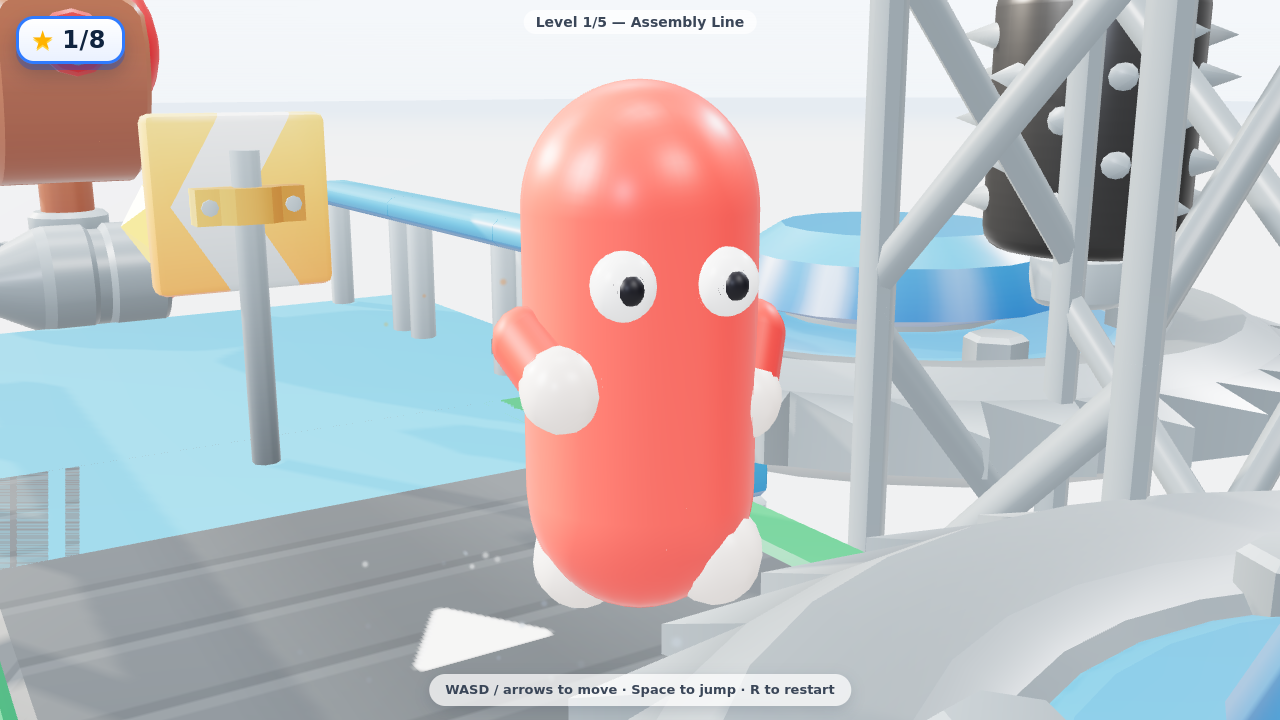
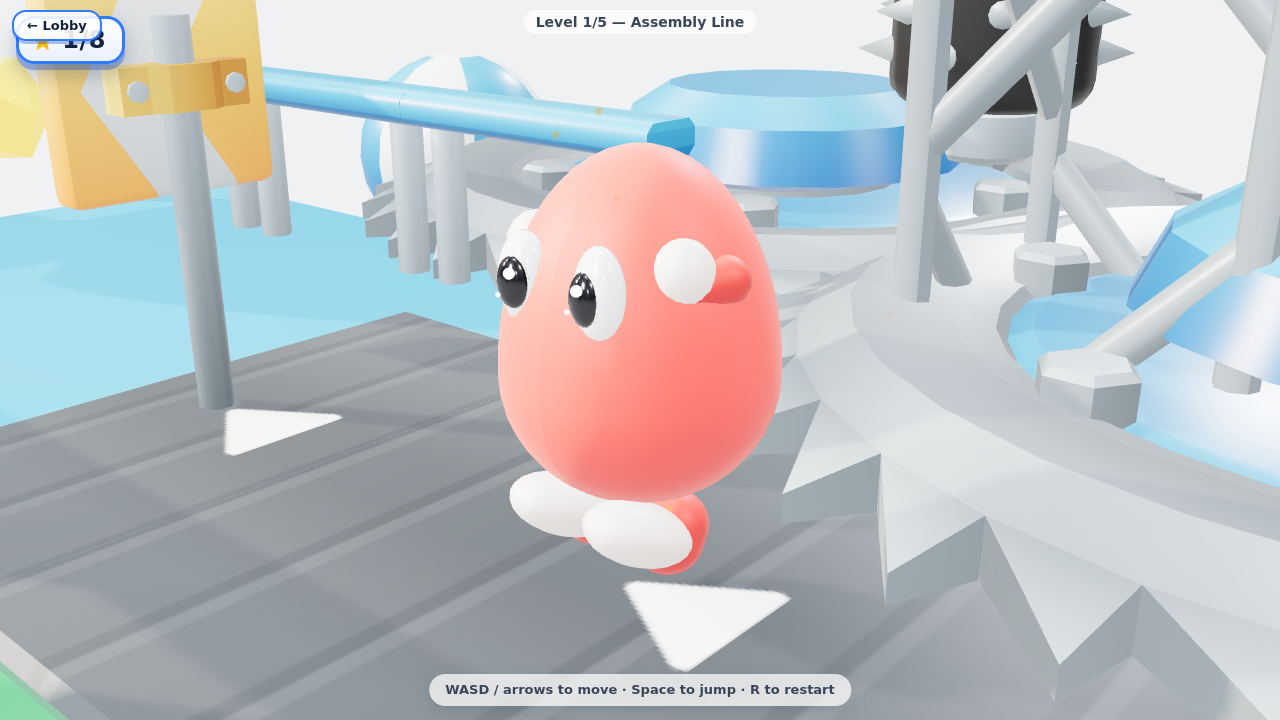
Redesign character into a proper Fall-Guys bean
Rebuilt web/src/character.js (shared by the in-game player and the lobby
preview) from a plain capsule into a Fall-Guys-style bean, via a research +
5-parallel-candidate + synthesis pipeline (see CHARACTER_DESIGN.md):

- Body: a bottom-heavy GUMDROP built from a generated two-ellipse
  LatheGeometry profile (fat round bottom, widest ~37% up, tall ROUNDED dome
  top — no cone/point), with a baked bottom ambient-occlusion via vertex
  colours that survives every skin recolour.
- Eyes (the expression): BIG tall-oval glossy sclera + a large wet near-black
  pupil + two crisp unlit white catchlight dots (same screen-side on both for
  a focused gaze), set in the upper-middle with a clear forehead.
- Limbs: tiny stubby mitten arms splayed at the body's side surface + short
  legs with flattened FORWARD boots, so arms and feet read clearly from the
  high in-game camera. Foot bottom at y -0.78 (stands on decks).
- Material: satin 'jelly/vinyl' MeshPhysicalMaterial (clearcoat + sheen +
  faint fake-SSS emissive); glossier eyes; honours skin.finish
  (matte/gloss/metal) and still supports the skin pattern textures.

Drop-in: same buildCharacter(parent, skin) contract + BEAN_RADIUS/
BEAN_HALF_HEIGHT exports, so player.js's squash/walk/blink rig and the
cosmetics skin/aura/pet system are unchanged. Physics capsule untouched —
L1 both lanes still finish with 0 deaths; solid + patterned skins verified.
Refreshed the character.png / lobby.png deliverable shots to the new bean.
[…]

diff --git a/web/src/character.js b/web/src/character.js
@@ -1,14 +1,23 @@
 import * as THREE from 'three';
 
-// CHARACTER — the shared "pill guy" mesh builder. Used by BOTH the in-game
-// player (player.js) and the lobby preview (lobby.js) so the equipped SKIN looks
-// identical everywhere. A skin recolors the body/limbs/hands+feet and can add a
-// surface pattern + material finish (matte/gloss/metal). Movement/physics live
-// in player.js; this file is pure visuals.
+// CHARACTER — the shared "pill guy" mesh builder, redesigned to read like the
+// real Fall Guys bean. Used by BOTH the in-game player (player.js) and the lobby
+// preview (lobby.js) so the equipped SKIN looks identical everywhere.
 //
 //   buildCharacter(parent, skin?) -> { rig, body, legL, legR, armL, armR, eyes }
 //     skin = a cosmetics 'skin' item: { body, limb, cap, pattern, patternColor, finish }
-//            (all colours are hex strings). Omitted -> the default Classic Coral.
+//            (hex strings). Omitted -> the default Classic Coral.
+//
+// Design (from Fall Guys reference): a bottom-heavy GUMDROP body (LatheGeometry,
+// widest in the lower third, fuller rounded dome top) with a baked soft bottom
+// ambient-occlusion; BIG tall-oval eyes (glossy white sclera + a large dark wet
+// pupil + crisp unlit catchlights) set in the upper-middle with a clear forehead;
+// and TINY stubby mitten arms + boot legs that peek past the body. A satin
+// "jelly/vinyl toy" MeshPhysicalMaterial (clearcoat + sheen + faint fake-SSS).
+//
+// Contract for the owner: everything lives under one THREE.Group `rig` (the
+// squash/stretch handle); legL/R + armL/R are hinged pivot Groups (rotation.x
+// swings them); `eyes` is an array of eye GROUPS so a blink scales each .y -> 0.1.
 
 // Capsule dimensions — exported so player.js builds its physics capsule to match.
 export const BEAN_RADIUS = 0.35;
@@ -19,76 +28,144 @@ const DEFAULT_SKIN = {
   pattern: 'none', patternColor: '#ffffff', finish: 'matte',
 };
 
-// Material params per finish: roughness/metalness/env intensity for the body.
+// Body profile (radius, y) — generated as TWO quarter-ellipses joined at the
+// widest point so the silhouette is a smooth bottom-heavy GUMDROP: a fat round
+// bottom (short lower ellipse) under a tall ROUNDED DOME (taller upper ellipse),
+// never a cone/point. Widest ~0.44 at ~34% up; round bottom y -0.62; domed top
+// y +0.72. Feet/boots hang just below to y -0.78.
+const BODY_PROFILE = (() => {
+  const pts = [];
+  const maxR = 0.45, bottomY = -0.55, widestY = -0.12, topY = 0.62;
+  const lo = widestY - bottomY, hi = topY - widestY, N = 11;
+  for (let i = 0; i <= N; i++) { const a = (i / N) * (Math.PI / 2); pts.push([maxR * Math.sin(a), bottomY + lo * (1 - Math.cos(a))]); }
+  for (let i = 1; i <= N + 2; i++) { const b = (i / (N + 2)) * (Math.PI / 2); pts.push([maxR * Math.cos(b), widestY + hi * Math.sin(b)]); }
+  return pts;
+})();
+
+// Per-finish material numbers for the body. default/'satin' -> the jelly defaults.
 function finishParams(finish) {
   switch (finish) {
-    case 'gloss': return { roughness: 0.18, metalness: 0.1, env: 1.2 };
-    case 'metal': return { roughness: 0.25, metalness: 0.92, env: 1.5 };
-    default:      return { roughness: 0.4, metalness: 0.05, env: 1.0 }; // matte
+    case 'matte': return { roughness: 0.5, metalness: 0.0, clearcoat: 0.12, clearcoatRoughness: 0.6, env: 0.7 };
+    case 'gloss': return { roughness: 0.2, metalness: 0.0, clearcoat: 0.6, clearcoatRoughness: 0.25, env: 1.25 };
+    case 'metal': return { roughness: 0.28, metalness: 0.9, clearcoat: 0.35, clearcoatRoughness: 0.25, env: 1.6 };
+    default:      return { roughness: 0.4, metalness: 0.0, clearcoat: 0.28, clearcoatRoughness: 0.45, env: 0.9 };
   }
 }
+
+function smoothstep(e0, e1, x) { const t = Math.min(1, Math.max(0, (x - e0) / (e1 - e0))); return t * t * (3 - 2 * t); }
+function lighten(hex, amt) { return new THREE.Color(hex).lerp(new THREE.Color(0xffffff), amt); }
 
 export function buildCharacter(parent, skin) {
   const s = { ...DEFAULT_SKIN, ...(skin || {}) };
   const fin = finishParams(s.finish);
+  const hasPattern = s.pattern && s.pattern !== 'none';
 
-  const bodyMat = new THREE.MeshStandardMaterial({ color: new THREE.Color(s.body), roughness: fin.roughness, metalness: fin.metalness, envMapIntensity: fin.env });
-  // A surface pattern is baked into a small canvas texture used as the body map.
-  if (s.pattern && s.pattern !== 'none') {
+  // --- Body material: satin jelly/vinyl. clearcoat = thin glossy lacquer; sheen
+  // = soft velvety fresnel rim; faint emissive of the body hue fakes sub-surface
+  // glow so shadowed faces don't go muddy. vertexColors = the baked bottom AO.
+  // When the skin has a pattern, the texture carries the albedo (body colour +
+  // pattern), so the material colour is white to avoid double-tinting.
+  const bodyMat = new THREE.MeshPhysicalMaterial({
+    color: hasPattern ? 0xffffff : new THREE.Color(s.body),
+    roughness: fin.roughness, metalness: fin.metalness,
+    clearcoat: fin.clearcoat, clearcoatRoughness: fin.clearcoatRoughness,
+    sheen: 0.7, sheenRoughness: 0.6, sheenColor: lighten(s.body, 0.35),
+    envMapIntensity: fin.env,
+    emissive: new THREE.Color(s.body), emissiveIntensity: 0.1,
+    vertexColors: true,
+  });
+  if (hasPattern) {
     const tex = makePatternTexture(s.body, s.patternColor, s.pattern);
     if (tex) bodyMat.map = tex;
   }
-  const limbMat = new THREE.MeshStandardMaterial({ color: new THREE.Color(s.limb), roughness: 0.45, metalness: fin.metalness * 0.6 });
-  const capMat = new THREE.MeshStandardMaterial({ color: new THREE.Color(s.cap), roughness: 0.3, metalness: 0.05 });
+  const limbMat = new THREE.MeshPhysicalMaterial({
+    color: new THREE.Color(s.limb), roughness: Math.max(0.12, fin.roughness - 0.05), metalness: fin.metalness,
+    clearcoat: Math.min(1, fin.clearcoat + 0.1), clearcoatRoughness: fin.clearcoatRoughness,
+    sheen: 0.5, sheenRoughness: 0.6, sheenColor: lighten(s.limb, 0.3), envMapIntensity: fin.env,
+  });
+  const capMat = new THREE.MeshPhysicalMaterial({
+    color: new THREE.Color(s.cap), roughness: 0.28, metalness: fin.metalness * 0.4,
+    clearcoat: 0.35, clearcoatRoughness: 0.35, sheen: 0.4, sheenRoughness: 0.6,
+    sheenColor: lighten(s.cap, 0.25), envMapIntensity: fin.env,
+  });
+  // Eyes: glossiest, wettest element. Sclera = wet white; pupil = deep wet black.
+  const scleraMat = new THREE.MeshPhysicalMaterial({ color: 0xffffff, roughness: 0.12, clearcoat: 0.8, clearcoatRoughness: 0.08, envMapIntensity: 1.4 });
+  const pupilMat = new THREE.MeshPhysicalMaterial({ color: 0x16161e, roughness: 0.08, clearcoat: 1.0, clearcoatRoughness: 0.04, envMapIntensity: 1.6 });
+  const catchMat = new THREE.MeshBasicMaterial({ color: 0xffffff, toneMapped: false });
 
-  const R = BEAN_RADIUS, HH = BEAN_HALF_HEIGHT;
-
-  // Squash & stretch rig: a single Group holding ALL character meshes so the
-  // owner can scale/offset the whole character (juice) without disturbing
-  // object3D.position (physics/camera) or object3D.rotation.y (facing).
+  // Squash & stretch rig: one Group holding ALL meshes.
   const rig = new THREE.Group();
   parent.add(rig);
 
-  // Torso (the bean).
-  const body = new THREE.Mesh(new THREE.CapsuleGeometry(R, 2 * HH, 8, 20), bodyMat);
+  // --- Body: revolved gumdrop + baked bottom-AO vertex colours. ---------------
+  const bodyGeo = new THREE.LatheGeometry(BODY_PROFILE.map(([r, y]) => new THREE.Vector2(r, y)), 64);
+  bodyGeo.computeVertexNormals();
+  const pos = bodyGeo.getAttribute('position');
+  let minY = Infinity, maxY = -Infinity;
+  for (let i = 0; i < pos.count; i++) { const y = pos.getY(i); if (y < minY) minY = y; if (y > maxY) maxY = y; }
+  const aoTop = minY + (maxY - minY) * 0.5; // full albedo by ~mid-body
+  const colors = new Float32Array(pos.count * 3);
+  for (let i = 0; i < pos.count; i++) {
+    const f = 0.8 + 0.2 * smoothstep(minY, aoTop, pos.getY(i)); // 0.8 at base -> 1.0 by mid
+    colors[i * 3] = f; colors[i * 3 + 1] = f; colors[i * 3 + 2] = f;
+  }
+  bodyGeo.setAttribute('color', new THREE.BufferAttribute(colors, 3));
+  const body = new THREE.Mesh(bodyGeo, bodyMat);
   body.castShadow = true; body.receiveShadow = true;
   rig.add(body);
 
-  // A limb hinged at (px,py): a Group at the hinge holding a capsule that hangs
-  // below it, capped with a rounded sphere (hand/foot). baseZ tilts it outward.
-  function limb(px, py, length, r, capR, baseZ) {
+  // --- Limbs: pivot Group at (px,py) with a capsule + rounded cap hanging below
+  // the hinge, so rotation.x swings it. baseZ splays it outward; capSY flattens
+  // the cap (boots), capFwd nudges it forward (toe).
+  function limb(px, py, length, r, capR, baseZ, capSY, capFwd, capSZ) {
     const g = new THREE.Group();
     g.position.set(px, py, 0);
     g.rotation.z = baseZ || 0;
-    const m = new THREE.Mesh(new THREE.CapsuleGeometry(r, length, 5, 10), limbMat);
+    const m = new THREE.Mesh(new THREE.CapsuleGeometry(r, length, 6, 12), limbMat);
     m.position.y = -(length / 2 + r * 0.5);
     m.castShadow = true;
     g.add(m);
-    const cap = new THREE.Mesh(new THREE.SphereGeometry(capR, 12, 10), capMat);
-    cap.position.y = -(length + r * 0.5);
+    const cap = new THREE.Mesh(new THREE.SphereGeometry(capR, 16, 12), capMat);
+    cap.position.set(0, -(length + r * 0.5), capFwd || 0);
+    if (capSY || capSZ) cap.scale.set(1, capSY || 1, capSZ || 1.08);
     cap.castShadow = true;
     g.add(cap);
     rig.add(g);
     return g;
   }
-  // Legs: spaced apart, hung from the lower bean so the cream feet peek out below.
-  const legL = limb(-0.18, -HH + 0.06, 0.22, 0.12, 0.15, 0);
-  const legR = limb(0.18, -HH + 0.06, 0.22, 0.12, 0.15, 0);
-  // Arms: at the shoulders, splayed slightly outward (base z-tilt) with hands.
-  const armL = limb(-(R + 0.02), HH * 0.2, 0.2, 0.1, 0.12, 0.32);
-  const armR = limb(R + 0.02, HH * 0.2, 0.2, 0.1, 0.12, -0.32);
+  // Legs: thick short stubs with flattened boots pushed FORWARD and lengthened in
+  // z (toe) so the feet poke out the front-bottom — visible even from the high
+  // in-game camera. Boot bottom lands at ~y -0.78 (stands on decks).
+  const legL = limb(-0.16, -0.565, 0.05, 0.12, 0.15, 0, 0.7, 0.16, 1.5);
+  const legR = limb(0.16, -0.565, 0.05, 0.12, 0.15, 0, 0.7, 0.16, 1.5);
+  // Arms: attached out at the body's SIDE surface (x ~ body radius at that
+  // height) and splayed outward, so the mitten hands clearly clear the fat belly
+  // instead of hiding inside it.
+  const armL = limb(-0.37, 0.26, 0.13, 0.08, 0.10, 0.5, 1, 0.05);
+  const armR = limb(0.37, 0.26, 0.13, 0.08, 0.10, -0.5, 1, 0.05);
 
-  // Eyes on the +Z (front) face.
-  const whiteMat = new THREE.MeshStandardMaterial({ color: 0xffffff, roughness: 0.25 });
-  const pupilMat = new THREE.MeshStandardMaterial({ color: 0x1a1a22, roughness: 0.4 });
-  const eyeY = HH * 0.6, eyeX = R * 0.42, eyeZ = R * 0.92;
-  const eyes = []; // eye-white meshes — Y-scaled to blink
+  // --- Eyes: big tall-ovals in the upper-middle, clear forehead dome above.
+  // Each eye is a GROUP (sclera + pupil + 2 catchlights) so a blink scales .y.
+  // Catchlights sit on the SAME screen-side on both eyes (not mirrored) for a
+  // single focused gaze. A slight toe-in faces them forward on the curved body.
+  const eyes = [];
+  const eyeY = 0.24, eyeX = 0.15, eyeZ = 0.35;
   for (const sx of [-1, 1]) {
-    const white = new THREE.Mesh(new THREE.SphereGeometry(R * 0.26, 16, 12), whiteMat);
-    white.position.set(sx * eyeX, eyeY, eyeZ); white.castShadow = true; rig.add(white);
-    eyes.push(white);
-    const pupil = new THREE.Mesh(new THREE.SphereGeometry(R * 0.13, 12, 10), pupilMat);
-    pupil.position.set(sx * eyeX, eyeY, eyeZ + R * 0.16); rig.add(pupil);
+    const eye = new THREE.Group();
+    eye.position.set(sx * eyeX, eyeY, eyeZ);
+    eye.rotation.y = -sx * 0.14; // toe in toward the front centre
+    const sclera = new THREE.Mesh(new THREE.SphereGeometry(0.1, 20, 16), scleraMat);
+    sclera.scale.set(0.86, 1.5, 0.7); sclera.castShadow = true;
+    eye.add(sclera);
+    const pupil = new THREE.Mesh(new THREE.SphereGeometry(0.062, 18, 14), pupilMat);
+    pupil.scale.set(0.85, 1.32, 0.62); pupil.position.z = 0.055;
+    eye.add(pupil);
+    const main = new THREE.Mesh(new THREE.SphereGeometry(0.018, 10, 8), catchMat);
+    main.position.set(0.022, 0.04, 0.1); eye.add(main); // upper, screen-right
+    const spark = new THREE.Mesh(new THREE.SphereGeometry(0.008, 8, 6), catchMat);
+    spark.position.set(-0.022, -0.032, 0.1); eye.add(spark); // lower-opposite
+    rig.add(eye);
+    eyes.push(eye);
   }
 
   return { rig, body, legL, legR, armL, armR, eyes };
@@ -103,7 +180,6 @@ function makePatternTexture(baseHex, patHex, pattern) {
   c.width = c.height = size;
   const ctx = c.getContext('2d');
   if (!ctx) return null;
-
   if (pattern === 'gradient') {
     const g = ctx.createLinearGradient(0, 0, 0, size);
     g.addColorStop(0, patHex); g.addColorStop(1, baseHex);
@@ -122,18 +198,11 @@ function makePatternTexture(baseHex, patHex, pattern) {
         ctx.stroke();
       }
     } else if (pattern === 'spots') {
-      for (let i = 0; i < 26; i++) {
-        const x = Math.random() * size, y = Math.random() * size, r = 10 + Math.random() * 14;
-        ctx.beginPath(); ctx.arc(x, y, r, 0, Math.PI * 2); ctx.fill();
-      }
+      for (let i = 0; i < 26; i++) { const x = Math.random() * size, y = Math.random() * size, r = 10 + Math.random() * 14; ctx.beginPath(); ctx.arc(x, y, r, 0, Math.PI * 2); ctx.fill(); }
     } else if (pattern === 'stars') {
-      for (let i = 0; i < 40; i++) {
-        const x = Math.random() * size, y = Math.random() * size, r = 2 + Math.random() * 4;
-        ctx.beginPath(); ctx.arc(x, y, r, 0, Math.PI * 2); ctx.fill();
-      }
+      for (let i = 0; i < 40; i++) { const x = Math.random() * size, y = Math.random() * size, r = 2 + Math.random() * 4; ctx.beginPath(); ctx.arc(x, y, r, 0, Math.PI * 2); ctx.fill(); }
     }
   }
-
   const tex = new THREE.CanvasTexture(c);
   tex.colorSpace = THREE.SRGBColorSpace;
   tex.wrapS = tex.wrapT = THREE.RepeatWrapping;

diff --git a/CHARACTER_DESIGN.md b/CHARACTER_DESIGN.md
@@ -1,0 +1,60 @@
+# Pill-Guys — Character Redesign (Fall-Guys bean)
+
+The player character (and lobby preview) was rebuilt in `web/src/character.js` to
+read like the real Fall Guys bean instead of a plain capsule. Done with a
+research → many-candidates → synthesis pipeline.
+
+## Research (what the real Fall Guys bean is)
+
+- **Body:** a bottom-heavy **gumdrop/teardrop**, NOT a uniform capsule — fat,
+  near-hemispherical bottom, **widest ~35–40% up**, tapering to a **rounded
+  domed top** (no neck). Body-alone height:width ≈ 1.25:1 (squat). Build with a
+  revolved profile (LatheGeometry).
+- **Eyes = the whole expression:** **big, tall-oval** eyes (not small spheres),
+  a large **dark wet pupil** (~60% of the white), and crisp **specular
+  catchlight dots** (the "alive" highlight — unlit so they always pop). Set high
+  on the front with a clear forehead dome. No mouth/nose/brows on the base bean.
+- **Limbs:** **tiny** vs the body (¼–⅕ its size) — stubby rounded **mitten**
+  arms high on the shoulder slope, short thick **boot** legs close together,
+  feet poking out the bottom.
+- **Material:** soft **"jelly/vinyl toy"** — satin, NOT chrome: a soft sheen +
+  light clearcoat, a faint fake sub-surface glow, and gentle bottom ambient
+  occlusion so it feels grounded and doughy.
+
+(Sources: Fall Guys Wiki, Mediatonic anatomy art, modeling breakdowns.)
+
+## Process
+
+1. **2 research agents** — one on body/limb geometry & proportions (produced a
+   LatheGeometry gumdrop profile + limb dimensions), one on face/eyes & material
+   (eye anatomy + a MeshPhysicalMaterial spec).
+2. **5 candidate agents in parallel**, each a different approach, all drop-in
+   compatible (`buildCharacter(parent, skin) -> { rig, body, legL, legR, armL, armR, eyes }`):
+   - A — faithful LatheGeometry gumdrop (came out a touch squat)
+   - B — blended/stacked spheres (visible seams — rejected)
+   - C — sculpted/displaced capsule (over-tapered to a cone — rejected)
+   - D — taller stylized lathe + extra-expressive twin-catchlight eyes ✅ best form
+   - E — premium materials (clearcoat/sheen/fake-SSS + baked bottom-AO vertex colors) ✅ best shading
+   A throwaway preview harness rendered each on a podium for side-by-side compare.
+3. **Synthesis** into the shipped `character.js`: D's tall body + expressive eyes
+   and E's premium materials/AO, then refined — a generated **two-ellipse gumdrop**
+   (round bottom + tall *rounded* dome, no cone/point), eyes raised to the
+   upper-middle, and arms/feet pushed out so they're clearly visible from the
+   high in-game camera (boots stick **forward** so the feet read).
+
+## Final spec (in `character.js`)
+
+- Body: LatheGeometry from a generated gumdrop profile (round bottom y≈-0.55,
+  widest ~37% up, domed top y≈+0.62), with a baked bottom-AO **vertex-color**
+  multiply (0.8 at the base → 1.0 by mid-body, survives every skin recolor).
+- Eyes: tall-oval glossy sclera + big wet near-black pupil + two unlit white
+  catchlights (same screen-side on both eyes for a focused gaze), slight toe-in.
+- Limbs: tiny mitten-capped arms splayed at the body's side surface; short legs
+  with flattened, **forward** boots; foot bottom at y≈-0.78 so it stands on decks.
+- Material: `MeshPhysicalMaterial` satin jelly — clearcoat + sheen + faint
+  emissive SSS; glossier eyes; `skin.finish` (matte/gloss/metal) honored; skin
+  **pattern** textures still supported (stripes/spots/gradient/stars/zigzag).
+
+The physics capsule (`BEAN_RADIUS 0.35`, `BEAN_HALF_HEIGHT 0.4`) and the
+player's squash/walk/blink rig are unchanged, so gameplay is identical (L1 both
+lanes still finish, 0 deaths) and the cosmetic skin system works as before.
